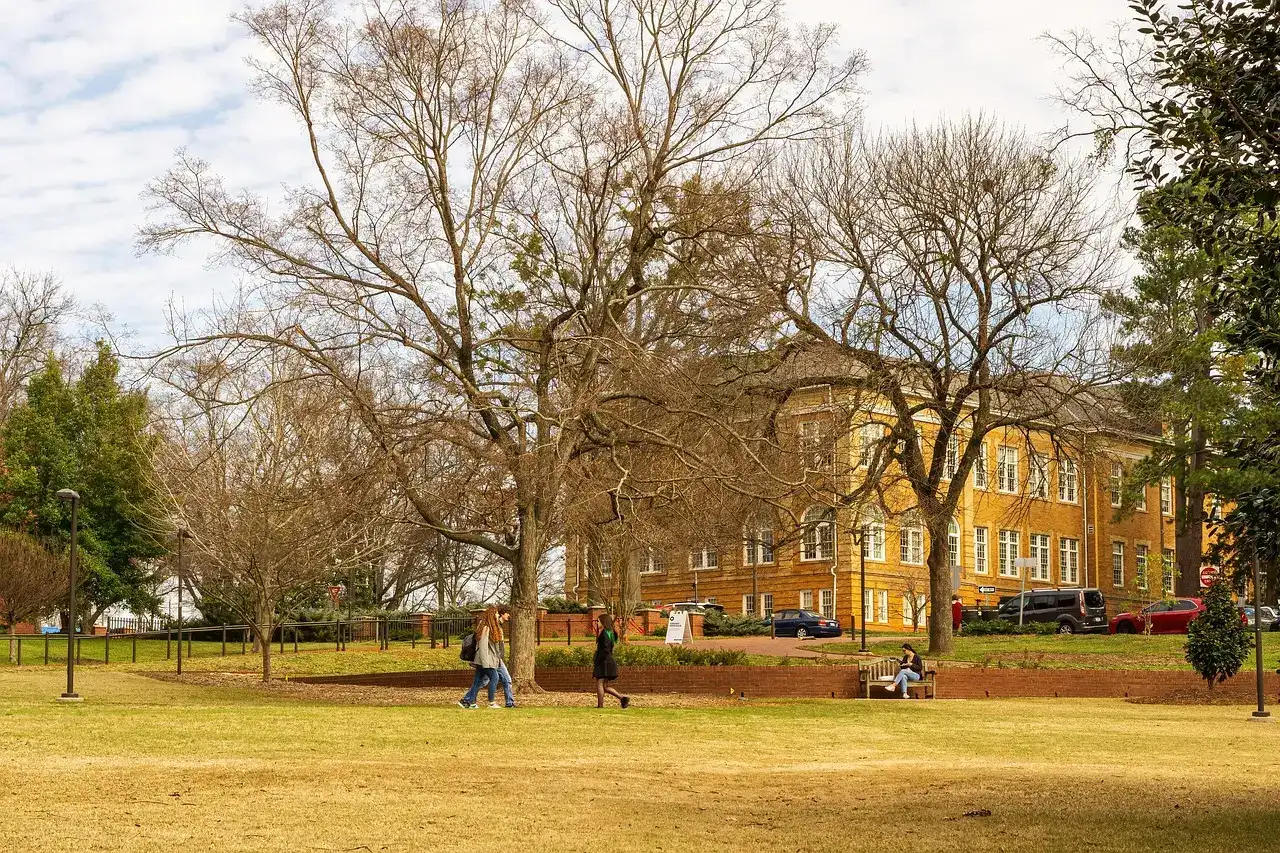
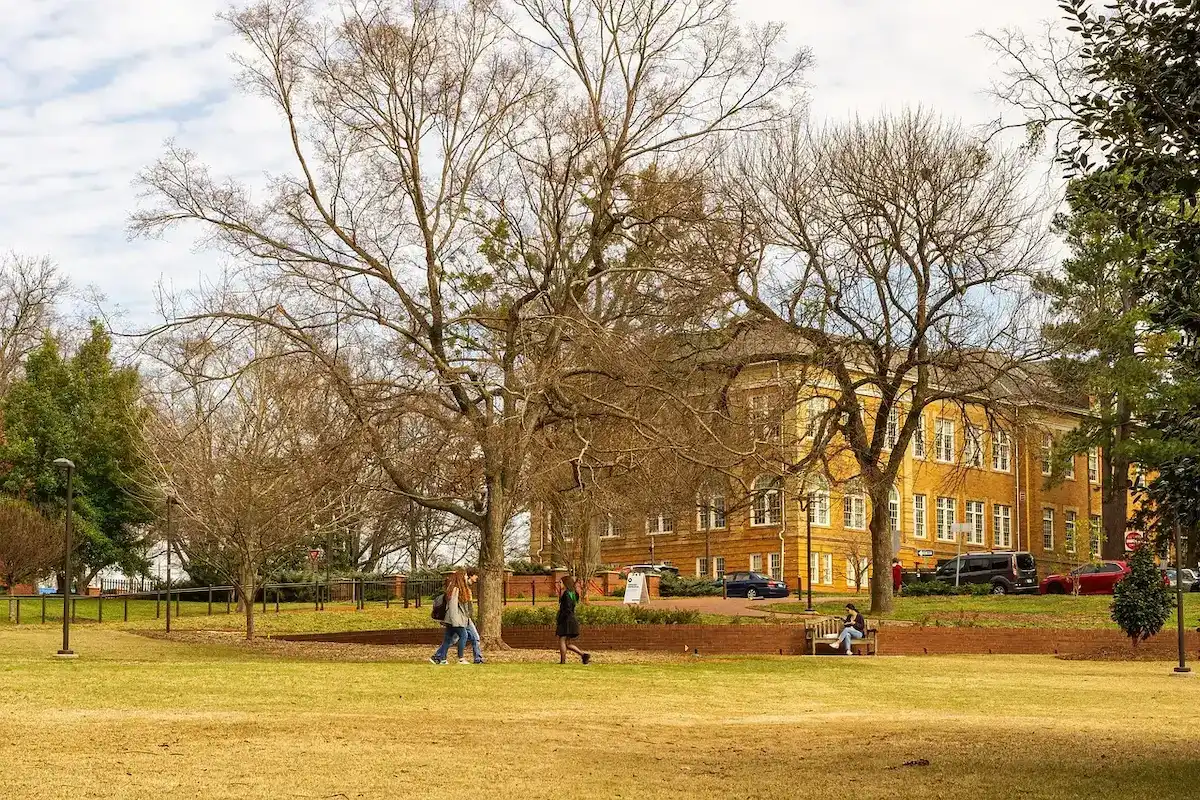
test 3

diff --git a/WebmasterTSA/src/pages/ResourceHub.jsx b/WebmasterTSA/src/pages/ResourceHub.jsx
@@ -13,9 +13,10 @@ import volunteering from "../data/Volunteering.json";
 import FilterBar from "../components/FilterBar.jsx";
 import ResourceCard from "../components/ResourceCard.jsx";
 
-import AcademicProgramImg from "../assets/AcademicProgram.jpg";
-import AwardsImg from "../assets/Awards.jpg";
-import CommunityEventsImg from "../assets/CommunityEvents.jpg";
+import AcademicProgramImg from "../assets/AcademicProgram.webp";
+import AwardsImg from "../assets/Awards.webp";
+import CommunityEventsImg from "../assets/CommunityEvents.webp";
+
 import NonprofitsImg from "../assets/Non-profits.jpg";
 import ScholarshipsImg from "../assets/Scholarships.jpg";
 import SummerProgramsImg from "../assets/SummerPrograms.jpg";

diff --git a/WebmasterTSA/src/pages/OurMission.jsx b/WebmasterTSA/src/pages/OurMission.jsx
@@ -5,7 +5,7 @@ import { motion, useInView } from "framer-motion";
 import researchTriangleImg from "../assets/ResearchTriangle.webp";
 import VolunteeringImg from "../assets/Volunteering.webp"; 
 
-import computerImg from "../assets/Computer.png";
+import computerImg from "../assets/Computer.webp";
 import filterImg from "../assets/Filter.png";
 import actionImg from "../assets/Action.png";
 
